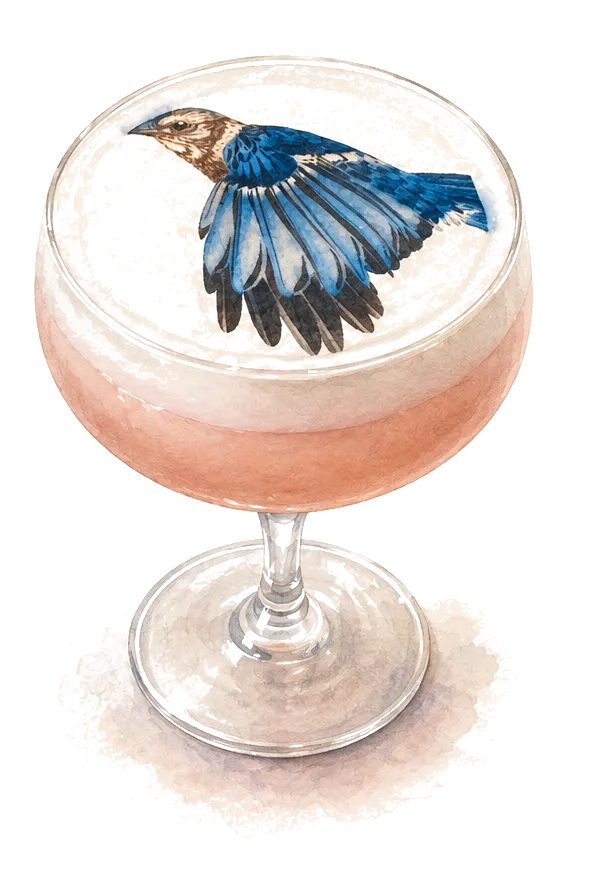
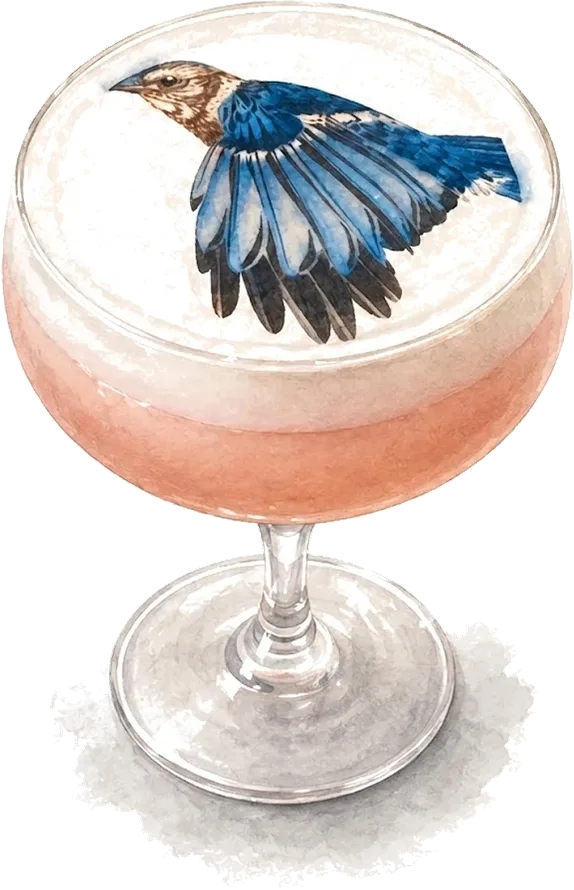
feat: 9 款鸡尾酒水彩插画(Gemini 出图)+ 一键处理脚本 / watercolor hero art for 9 cocktails + one-step processing script
- Flox Tail 换成 Gemini 版;新增 Black Forest Martini、Eye of the Dragon、Ool-La-La、Royal 75、
  Chang Jiang、Wei La Margarita、Monkey Business、Berries From Beijing
- scripts/make_hero.py:米色纸底校白 -> 抠白底 -> 去小斑点 -> 裁边 -> 高 890px webp
- remove_white_bg.py:只抠和边缘连通的白色,保留杯沿/泡沫高光;阈值可调

diff --git a/src/menu.js b/src/menu.js
@@ -9,12 +9,28 @@
 import kungPaoImg from './assets/kongpao_dish.webp'
 import harGowImg from './assets/ha_kao_dish.webp'
 import floxTailImg from './assets/flox_tail_dish.webp'
+import blackForestMartiniImg from './assets/black_forest_martini_dish.webp'
+import eyeOfTheDragonImg from './assets/eye_of_the_dragon_dish.webp'
+import oolLaLaImg from './assets/ool_la_la_dish.webp'
+import royal75Img from './assets/royal_75_dish.webp'
+import changJiangImg from './assets/chang_jiang_dish.webp'
+import weiLaMargaritaImg from './assets/wei_la_margarita_dish.webp'
+import monkeyBusinessImg from './assets/monkey_business_dish.webp'
+import berriesFromBeijingImg from './assets/berries_from_beijing_dish.webp'
 
 // 按菜品 id 对应成菜图 / hero image by dish id
 const heroImages = {
   'kung-pao-chicken': kungPaoImg,
   'ha-kao': harGowImg,
   'flox-tail': floxTailImg,
+  'black-forest-martini': blackForestMartiniImg,
+  'eye-of-the-dragon': eyeOfTheDragonImg,
+  'ool-la-la': oolLaLaImg,
+  'royal-75': royal75Img,
+  'chang-jiang': changJiangImg,
+  'wei-la-margarita': weiLaMargaritaImg,
+  'monkey-business': monkeyBusinessImg,
+  'berries-from-beijing': berriesFromBeijingImg,
 }
 
 const dishFiles = import.meta.glob('../data/dishes/*.json', { eager: true, import: 'default' })

diff --git a/scripts/make_hero.py b/scripts/make_hero.py
@@ -1,0 +1,54 @@
+"""白底插画 -> 菜单成菜图 / White-background illustration -> menu hero image.
+
+用法 / usage:  python scripts/make_hero.py <输入图> <输出 .webp> [背景阈值 hi,默认 248 / background threshold, default 248]
+抠白底(remove_white_bg) -> 去掉零星小斑点(比如角落水印) -> 裁掉透明边 -> 缩到高 890px -> 存 webp。
+Knocks out the white background, drops stray specks (e.g. a corner watermark), trims the
+transparent margin, scales to 890px tall and saves as webp.
+"""
+import os
+import sys
+import tempfile
+
+import numpy as np
+from PIL import Image
+from scipy import ndimage
+
+from remove_white_bg import remove_white
+
+HEIGHT = 890  # 和现有成菜图一致 / matches the existing hero images
+
+
+def level_paper(src, out):
+    """米色纸纹背景 -> 拉回纯白:按四周边缘的纸色逐通道提亮 / scale each channel so the paper
+    colour (taken from the image border) becomes pure white — handles cream / textured backgrounds."""
+    a = np.array(Image.open(src).convert("RGB")).astype(np.float32)
+    rim = np.concatenate([a[:15].reshape(-1, 3), a[-15:].reshape(-1, 3),
+                          a[:, :15].reshape(-1, 3), a[:, -15:].reshape(-1, 3)])
+    paper = np.percentile(rim, 25, axis=0)  # 偏暗一点的纸色,纸纹也能一起变白 / darker-side paper tone so texture whitens too
+    Image.fromarray(np.clip(a * (255.0 / paper), 0, 255).astype(np.uint8)).save(out)
+
+
+def make_hero(src, dst, hi=248):
+    tmp = os.path.join(tempfile.gettempdir(), "make_hero_cut.png")
+    leveled = os.path.join(tempfile.gettempdir(), "make_hero_level.png")
+    level_paper(src, leveled)
+    remove_white(leveled, tmp, hi=hi, lo=hi - 12)
+    a = np.array(Image.open(tmp))
+
+    # 只留大块主体,小于最大块 2% 的孤立斑点清掉 / keep the main subject, drop islands < 2% of the largest
+    labels, n = ndimage.label(a[..., 3] > 8)
+    if n > 1:
+        sizes = ndimage.sum(np.ones_like(labels), labels, range(1, n + 1))
+        keep = np.isin(labels, 1 + np.flatnonzero(sizes >= sizes.max() * 0.02))
+        a[~keep, 3] = 0
+
+    im = Image.fromarray(a)
+    im = im.crop(Image.fromarray(a[..., 3]).point(lambda v: 255 if v > 8 else 0).getbbox())
+    w, h = im.size
+    im = im.resize((round(w * HEIGHT / h), HEIGHT), Image.LANCZOS)
+    im.save(dst, quality=82)
+    print(f"saved {dst}  {im.size[0]}x{im.size[1]}")
+
+
+if __name__ == "__main__":
+    make_hero(sys.argv[1], sys.argv[2], *(int(v) for v in sys.argv[3:4]))

diff --git a/scripts/remove_white_bg.py b/scripts/remove_white_bg.py
@@ -8,9 +8,13 @@ to avoid white halos. Not a general-purpose matting tool.
 import sys
 import numpy as np
 from PIL import Image
+from scipy import ndimage
 
 
-def remove_white(src, dst):
+def remove_white(src, dst, hi=236, lo=218):
+    # hi: 比它亮的中性像素算背景;lo~hi 是柔边过渡带。背景很干净(如 Gemini 出图)时调高,避免吃掉白色泡沫/杯沿
+    # hi: neutral pixels brighter than this are background; lo..hi is the soft-edge band.
+    # Raise both for very clean backgrounds (e.g. Gemini output) so white foam / glass rims survive.
     im = Image.open(src).convert("RGBA")
     a = np.array(im).astype(np.int16)
     r, g, b = a[..., 0], a[..., 1], a[..., 2]
@@ -20,14 +24,20 @@ def remove_white(src, dst):
 
     alpha = a[..., 3].astype(np.float32)
 
-    # 纯白且中性 -> 全透明 / pure white & neutral -> fully transparent
-    bg = (mn >= 236) & (spread <= 14)
+    # 纯白且中性 -> 全透明;只抠和图片边缘连通的白色,主体内部的白色高光(玻璃杯沿、泡沫)保留
+    # pure white & neutral -> fully transparent; only white connected to the image border is
+    # removed, so white highlights inside the subject (glass rims, foam) are kept
+    white = (mn >= hi) & (spread <= 14)
+    labels, _ = ndimage.label(white)
+    border = np.unique(np.concatenate([labels[0], labels[-1], labels[:, 0], labels[:, -1]]))
+    bg = np.isin(labels, border[border > 0])
     alpha[bg] = 0
 
-    # 边缘过渡带:介于 218~236 的中性像素按亮度渐变透明,做出柔边
-    # edge band: neutral pixels between 218–236 fade out for a soft edge
-    edge = (~bg) & (mn >= 218) & (spread <= 20)
-    val = (236.0 - mn) / (236.0 - 218.0) * 255.0  # mn=236 -> 0, mn=218 -> 255
+    # 边缘过渡带:紧贴背景、亮度介于 lo~hi 的中性像素按亮度渐变透明,做出柔边
+    # edge band: neutral pixels between lo and hi right next to the background fade out for a soft edge
+    near_bg = ndimage.binary_dilation(bg, iterations=3)
+    edge = (~bg) & near_bg & (mn >= lo) & (spread <= 20)
+    val = (hi - mn) / float(hi - lo) * 255.0  # mn=hi -> 0, mn=lo -> 255
     val = np.clip(val, 0, 255)
     alpha[edge] = np.minimum(alpha[edge], val[edge])
 
